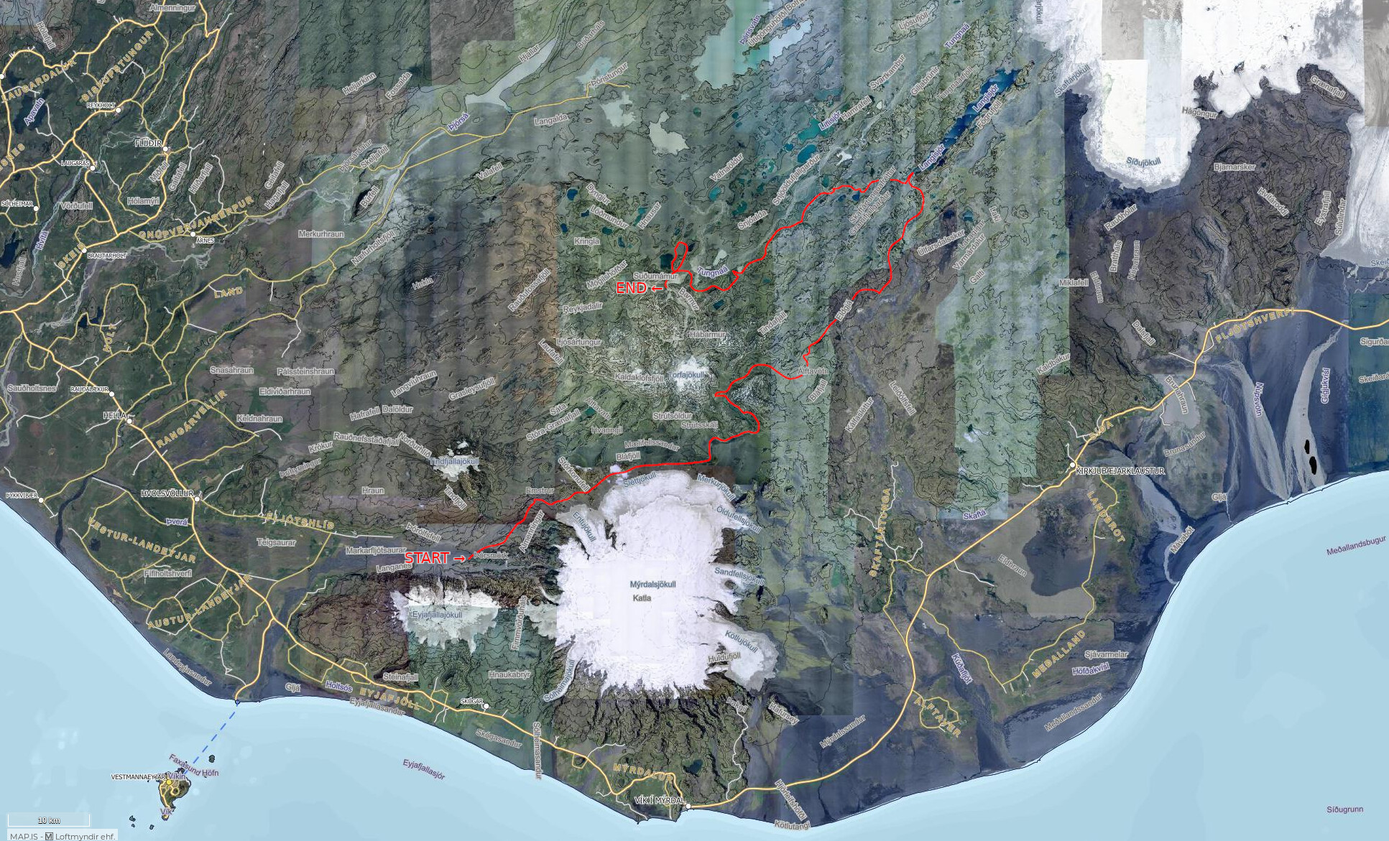
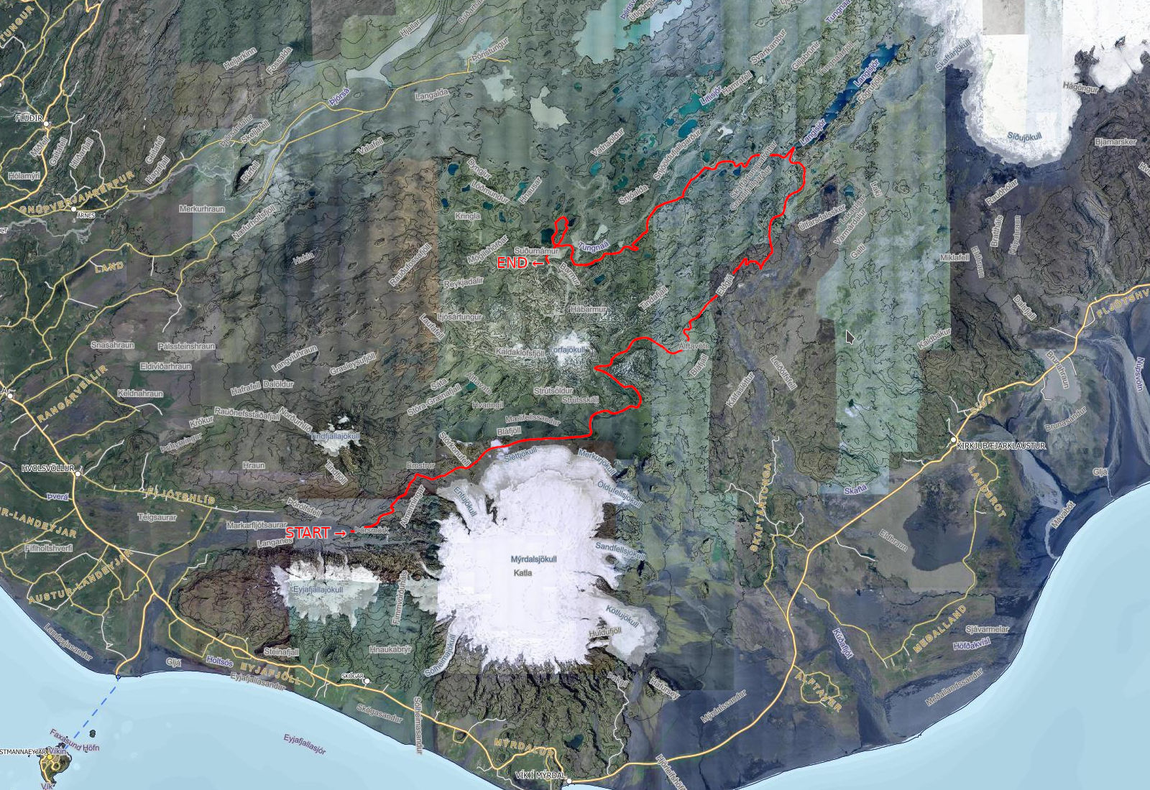
Add iceland map for first report

diff --git a/content/posts/iceland-2018-report-1/index.de.md b/content/posts/iceland-2018-report-1/index.de.md
@@ -8,6 +8,8 @@ author = "hauke"
 +++
 Nach [unseren Vorbereitungen]({{< ref "/posts/iceland-2018-preparation" >}}) konnte unsere Tour von Thorsmörk über Maelifell, Holmsarlon, Eldgja, Langisjor nach Landmannalaugar endlich los gehen.
 
+{{< imgScale "iceland-2018-map-18-20.jpg" "Der erste Teil unserer Route mit den ersten beiden Camps." "500x" >}}
+
 # Tag 1: Hamburg → Reykjavik
 {{< smallDate "2018-07-18" >}}
 Am Vortag haben wir noch schnell unsere Sachen gepackt und sind dann am 18.07.2018 hastig zum Flughafen.
@@ -183,6 +185,8 @@ Vor allem die sandigen Hügel waren sehr instabil und rutschig.
 
 Etwas vom Zelt entfernt floss der Frennri-Emstrua und da dessen Wasser sehr trüb war, hat dich unser Wasserfilter doch gelohnt.
 Wir haben das Wasser aber eine Nacht stehen lassen, so konnten sich die meisten Sedimente absetzen.
+
+{{< imgScale "iceland-2018-map-18-20.jpg" "Hier nochmal der erste Teil unserer Route mit den ersten beiden Camps." "500x" >}}
 
 # Fortsetzung folgt ...
 Ich hoffe dir hat der erste Teil des Berichtes gefallen.

diff --git a/content/posts/iceland-2018-report-1/index.en.md b/content/posts/iceland-2018-report-1/index.en.md
@@ -8,6 +8,8 @@ author = "hauke"
 +++
 After we did [our preparations]({{< ref "/posts/iceland-2018-preparation" >}}), the tour from Thorsmörk via Maelifell, Holmsarlon, Eldgja, Langisjor to Landmannalaugar was ready to start.
 
+{{< imgScale "iceland-2018-map-18-20.jpg" "The first part of our route with the first two camps." "500x" >}}
+
 # Day 1: Hamburg → Reykjavik
 {{< smallDate "2018-07-18" >}}
 At the day before the departure, we quickly packed our things and went on the Jul 18, 2018 to the airport in Hamburg, Germany.
